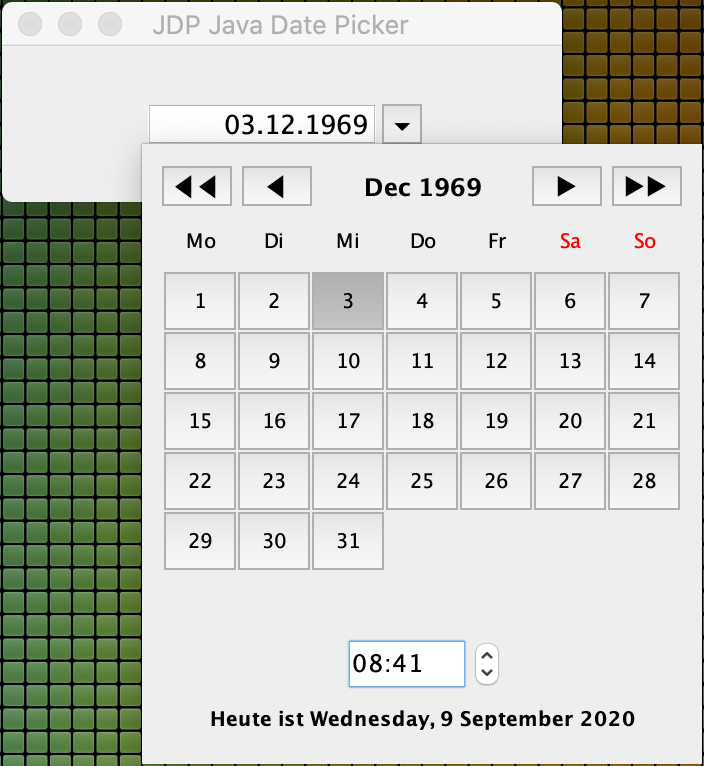
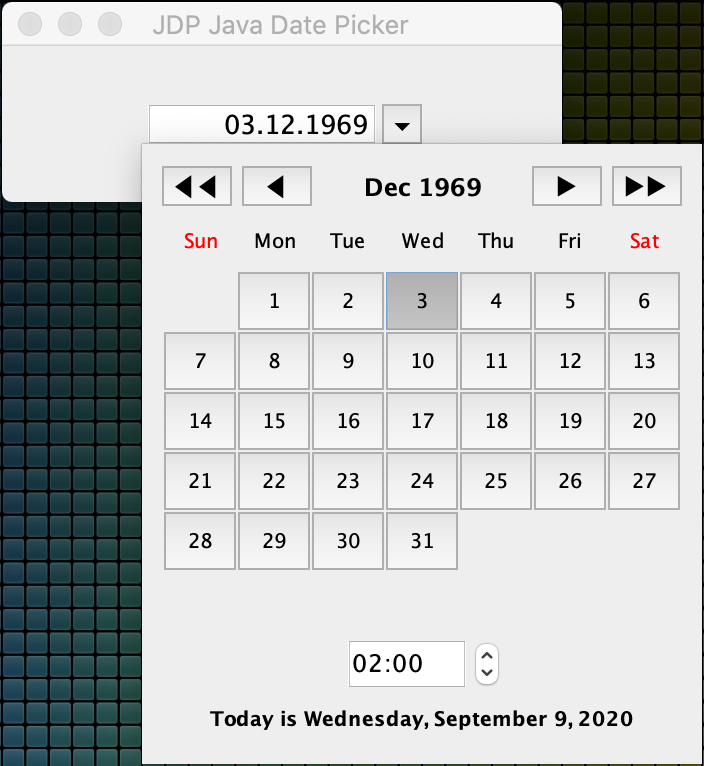
this and that

diff --git a/src/main/java/eu/hansolo/swing/jdp/DatePickerPopup.java b/src/main/java/eu/hansolo/swing/jdp/DatePickerPopup.java
@@ -17,10 +17,13 @@
 package eu.hansolo.swing.jdp;
 
 import javax.swing.*;
+import javax.swing.JSpinner.DefaultEditor;
 import javax.swing.border.EmptyBorder;
 import javax.swing.event.ChangeListener;
 import java.awt.*;
 import java.awt.event.ActionListener;
+import java.text.DateFormat;
+import java.text.SimpleDateFormat;
 import java.time.DateTimeException;
 import java.time.DayOfWeek;
 import java.time.LocalDate;
@@ -54,8 +57,8 @@ public class DatePickerPopup extends JComponent {
     private static final int                           MAX_HEIGHT            = 2048;
     private              int                           oldWidth              = PREFERRED_WIDTH;
     private              int                           oldHeight             = PREFERRED_HEIGHT;
-    protected            DateTimeFormatter             timeFormatter         = DateTimeFormatter.ofPattern("hh:mm");
-    protected            DateTimeFormatter             dateFormatter         = DateTimeFormatter.ofPattern("dd.MM.yyyy");
+    protected            DateTimeFormatter             timeFormatter;
+    protected            DateTimeFormatter             dateFormatter;
     private              DateTimeFormatter             todaysDateFormatter;
     private              List<DatePickerEventObserver> observers;
     private              Locale                        locale;
@@ -101,48 +104,54 @@ public class DatePickerPopup extends JComponent {
 
     // ******************** Constructors **************************************
     public DatePickerPopup() {
-        this(Locale.getDefault(), false, true, ZonedDateTime.now(), ZoneId.systemDefault(), DATE_AND_TIME, "hh:mm", "dd.mm.YYYY", Color.black, Color.red);
+        this(Locale.getDefault(), false, true, ZonedDateTime.now(), ZoneId.systemDefault(), DATE_AND_TIME, Color.black, Color.red);
     }
     public DatePickerPopup(final LocalDate selectedDate) {
-        this(Locale.getDefault(), false, true, ZonedDateTime.of(selectedDate, LocalTime.now(), ZoneId.systemDefault()), ZoneId.systemDefault(), DATE_AND_TIME, "hh:mm", "dd.mm.YYYY", Color.black, Color.red);
+        this(Locale.getDefault(), false, true, ZonedDateTime.of(selectedDate, LocalTime.now(), ZoneId.systemDefault()), ZoneId.systemDefault(), DATE_AND_TIME, Color.black, Color.red);
     }
     public DatePickerPopup(final ZonedDateTime selectedDate) {
-        this(Locale.getDefault(), false, true, selectedDate, ZoneId.systemDefault(), DATE_AND_TIME, "hh:mm", "dd.mm.YYYY", Color.black, Color.red);
+        this(Locale.getDefault(), false, true, selectedDate, ZoneId.systemDefault(), DATE_AND_TIME, Color.black, Color.red);
     }
     public DatePickerPopup(final boolean calendarWeekVisible, final ZonedDateTime selectedDate) {
-        this(Locale.getDefault(), calendarWeekVisible, true, selectedDate, ZoneId.systemDefault(), DATE_AND_TIME, "hh:mm", "dd.mm.YYYY", Color.black, Color.red);
+        this(Locale.getDefault(), calendarWeekVisible, true, selectedDate, ZoneId.systemDefault(), DATE_AND_TIME, Color.black, Color.red);
     }
     public DatePickerPopup(final Locale locale, final ZonedDateTime selectedDate) {
-        this(locale, false, true, selectedDate, ZoneId.systemDefault(), DATE_AND_TIME, "hh:mm", "dd.mm.YYYY", Color.black, Color.red);
+        this(locale, false, true, selectedDate, ZoneId.systemDefault(), DATE_AND_TIME, Color.black, Color.red);
     }
-    public DatePickerPopup(final Locale locale, final boolean calendarWeekVisible, final boolean todaysDateVisible, final ZonedDateTime selectedDate, final ZoneId zoneId, final DisplayMode displayMode, final String timeFormat, final String dateFormat, final Color textColor, final Color weekEndColor) {
+    public DatePickerPopup(final Locale locale, final boolean calendarWeekVisible, final boolean todaysDateVisible, final ZonedDateTime selectedDate, final ZoneId zoneId, final DisplayMode displayMode, final Color textColor, final Color weekEndColor) {
         setBorder(new EmptyBorder(10, 10, 10, 10));
-        this.locale               = locale;
-        this.zoneId               = zoneId;
-        this.todaysDateFormatter  = DateTimeFormatter.ofLocalizedDate(FormatStyle.FULL).withLocale(locale);
-        this.calendarWeekVisible  = calendarWeekVisible;
-        this.todaysDateVisible    = todaysDateVisible;
-        this.displayMode          = displayMode;
-        this.textColor            = textColor;
-        this.weekendColor         = weekEndColor;
-        this.timeFormat           = timeFormat;
-        this.dateFormat           = dateFormat;
-        this.resourceBundle       = ResourceBundle.getBundle("eu.hansolo.swing.jdp.DatePickerBundle", this.locale);
-        this.observers            = new CopyOnWriteArrayList();
-        this.selectedDate         = selectedDate;
-        this.selectedTime         = selectedDate.toLocalTime();
-        this.currentDate          = selectedDate;
-        this.currentMonthFont     = new Font("SansSerif", Font.BOLD, 10);
-        this.daysOfWeekFont       = new Font("SansSerif", Font.PLAIN, 10);
-        this.calendarWeekFont     = new Font("SansSerif", Font.PLAIN, 8);
-        this.dayFont              = new Font("SansSerif", Font.PLAIN, 10);
-        this.spinnerFont          = new Font("SansSerif", Font.PLAIN, 12);
-        this.daysOfWeek           = new ArrayList<>();
-        this.calendarWeeks        = new ArrayList<>();
-        this.days                 = new ArrayList<>();
-        this.weekFields           = WeekFields.of(this.locale);
-        this.startOfWeek          = weekFields.getFirstDayOfWeek();
-        this.controlClickListener = e -> {
+        this.locale                  = locale;
+
+        SimpleDateFormat datePattern = (SimpleDateFormat) DateFormat.getDateInstance(DateFormat.DEFAULT, locale);
+        SimpleDateFormat timePattern = (SimpleDateFormat) DateFormat.getTimeInstance(DateFormat.DEFAULT, locale);
+
+        this.dateFormatter           = DateTimeFormatter.ofLocalizedDate(FormatStyle.SHORT).withLocale(locale);
+        this.timeFormatter           = DateTimeFormatter.ofLocalizedTime(FormatStyle.SHORT).withLocale(locale);
+        this.dateFormat              = datePattern.toLocalizedPattern();
+        this.timeFormat              = timePattern.toLocalizedPattern();
+        this.zoneId                  = zoneId;
+        this.todaysDateFormatter     = DateTimeFormatter.ofLocalizedDate(FormatStyle.FULL).withLocale(locale);
+        this.calendarWeekVisible     = calendarWeekVisible;
+        this.todaysDateVisible       = todaysDateVisible;
+        this.displayMode             = displayMode;
+        this.textColor               = textColor;
+        this.weekendColor            = weekEndColor;
+        this.resourceBundle          = ResourceBundle.getBundle("eu.hansolo.swing.jdp.DatePickerBundle", this.locale);
+        this.observers               = new CopyOnWriteArrayList();
+        this.selectedDate            = selectedDate;
+        this.selectedTime            = selectedDate.toLocalTime();
+        this.currentDate             = selectedDate;
+        this.currentMonthFont        = new Font("SansSerif", Font.BOLD, 10);
+        this.daysOfWeekFont          = new Font("SansSerif", Font.PLAIN, 10);
+        this.calendarWeekFont        = new Font("SansSerif", Font.PLAIN, 8);
+        this.dayFont                 = new Font("SansSerif", Font.PLAIN, 10);
+        this.spinnerFont             = new Font("SansSerif", Font.PLAIN, 12);
+        this.daysOfWeek              = new ArrayList<>();
+        this.calendarWeeks           = new ArrayList<>();
+        this.days                    = new ArrayList<>();
+        this.weekFields              = WeekFields.of(this.locale);
+        this.startOfWeek             = weekFields.getFirstDayOfWeek();
+        this.controlClickListener    = e -> {
             Object src = e.getSource();
             if (src.equals(previousYearButton)) {
                 setCurrentDate(getCurrentDate().minusYears(1));
@@ -154,7 +163,7 @@ public class DatePickerPopup extends JComponent {
                 setCurrentDate(getCurrentDate().plusYears(1));
             }
         };
-        this.onClickListener      = e -> {
+        this.onClickListener         = e -> {
             JButton button = (JButton) e.getSource();
             ZonedDateTime selected = ZonedDateTime.of(LocalDate.of(getCurrentDate().getYear(), getCurrentDate().getMonthValue(), Integer.parseInt(button.getText())), selectedTime, zoneId);
             setSelectedDate(selected);
@@ -162,7 +171,7 @@ public class DatePickerPopup extends JComponent {
             button.requestFocus();
             fireDatePickerEvent(new DatePickerEvent(DatePickerPopup.this, DatePickerEventType.DATE_SELECTED, selected));
         };
-        this.timeChangeListener   = e -> {
+        this.timeChangeListener      = e -> {
             this.selectedTime = LocalTime.ofInstant((((Date) timeSpinner.getValue()).toInstant()), getZoneId());
             ZonedDateTime selected = ZonedDateTime.of(getSelectedDate().toLocalDate(), selectedTime, getZoneId());
             fireDatePickerEvent(new DatePickerEvent(DatePickerPopup.this, DatePickerEventType.DATE_SELECTED, selected));
@@ -395,6 +404,8 @@ public class DatePickerPopup extends JComponent {
             timeSpinner.setValue(date);
             timeSpinner.setEditor(new JSpinner.DateEditor(timeSpinner, getTimeFormat()));
             timeSpinner.addChangeListener(timeChangeListener);
+            JSpinner.DefaultEditor spinnerEditor = (DefaultEditor) timeSpinner.getEditor();
+            spinnerEditor.getTextField().setHorizontalAlignment(JTextField.CENTER);
 
             gridConstraints.fill      = GridBagConstraints.VERTICAL;
             gridConstraints.gridx     = 0;
@@ -552,6 +563,14 @@ public class DatePickerPopup extends JComponent {
         this.weekFields          = WeekFields.of(this.locale);
         this.startOfWeek         = weekFields.getFirstDayOfWeek();
         this.resourceBundle      = ResourceBundle.getBundle("eu.hansolo.swing.jdp.DatePickerBundle", this.locale);
+        this.dateFormatter       = DateTimeFormatter.ofLocalizedDate(FormatStyle.SHORT).withLocale(locale);
+        this.timeFormatter       = DateTimeFormatter.ofLocalizedTime(FormatStyle.SHORT).withLocale(locale);
+
+        SimpleDateFormat datePattern = (SimpleDateFormat) DateFormat.getDateInstance(DateFormat.DEFAULT, locale);
+        this.dateFormat = datePattern.toLocalizedPattern();
+        SimpleDateFormat timePattern = (SimpleDateFormat) DateFormat.getTimeInstance(DateFormat.DEFAULT, locale);
+        this.timeFormat = timePattern.toLocalizedPattern();
+
         this.todaysDateFormatter = DateTimeFormatter.ofLocalizedDate(FormatStyle.FULL).withLocale(locale);
         reInit();
     }

diff --git a/src/main/java/eu/hansolo/swing/jdp/DatePicker.java b/src/main/java/eu/hansolo/swing/jdp/DatePicker.java
@@ -20,6 +20,7 @@ import javax.swing.*;
 import javax.swing.border.EmptyBorder;
 import javax.swing.event.ChangeEvent;
 import javax.swing.event.ChangeListener;
+import javax.swing.text.DateFormatter;
 import java.awt.*;
 import java.awt.event.ActionListener;
 import java.awt.event.WindowEvent;
@@ -50,37 +51,39 @@ import static eu.hansolo.swing.jdp.DisplayMode.DATE_ONLY;
 
 
 public class DatePicker extends JPanel {
-    private DatePickerPopup popup;
+    private JFormattedTextField dateField;
+    private DatePickerPopup     popup;
 
     // ******************** Constructors **************************************
     public DatePicker() {
-        this(Locale.getDefault(), false, true, ZonedDateTime.now(), ZoneId.systemDefault(), DATE_AND_TIME, "hh:mm", "dd.MM.yyyy", Color.black, Color.red);
+        this(Locale.getDefault(), false, true, ZonedDateTime.now(), ZoneId.systemDefault(), DATE_AND_TIME, Color.black, Color.red);
     }
     public DatePicker(final LocalDate selectedDate) {
 
-        this(Locale.getDefault(), false, true, ZonedDateTime.of(selectedDate, LocalTime.now(), ZoneId.systemDefault()), ZoneId.systemDefault(), DATE_AND_TIME, "hh:mm", "dd.MM.yyyy", Color.black, Color.red);
+        this(Locale.getDefault(), false, true, ZonedDateTime.of(selectedDate, LocalTime.now(), ZoneId.systemDefault()), ZoneId.systemDefault(), DATE_AND_TIME, Color.black, Color.red);
     }
     public DatePicker(final ZonedDateTime selectedDate) {
-        this(Locale.getDefault(), false, true, selectedDate, ZoneId.systemDefault(), DATE_AND_TIME, "hh:mm", "dd.MM.yyyy", Color.black, Color.red);
+        this(Locale.getDefault(), false, true, selectedDate, ZoneId.systemDefault(), DATE_AND_TIME, Color.black, Color.red);
     }
     public DatePicker(final boolean calendarWeekVisible, final ZonedDateTime selectedDate) {
-        this(Locale.getDefault(), calendarWeekVisible, true, selectedDate, ZoneId.systemDefault(), DATE_AND_TIME, "hh:mm", "dd.MM.yyyy", Color.black, Color.red);
+        this(Locale.getDefault(), calendarWeekVisible, true, selectedDate, ZoneId.systemDefault(), DATE_AND_TIME, Color.black, Color.red);
     }
     public DatePicker(final Locale locale, final ZonedDateTime selectedDate) {
-        this(locale, false, true, selectedDate, ZoneId.systemDefault(), DATE_AND_TIME, "hh:mm", "dd.MM.yyyy", Color.black, Color.red);
+        this(locale, false, true, selectedDate, ZoneId.systemDefault(), DATE_AND_TIME, Color.black, Color.red);
     }
     public DatePicker(final Locale locale, final boolean calendarWeekVisible, final ZonedDateTime selectedDate, final DisplayMode displayMode) {
-        this(locale, calendarWeekVisible, true, selectedDate, ZoneId.systemDefault(), displayMode, "hh:mm", "dd.MM.yyyy", Color.black, Color.red);
+        this(locale, calendarWeekVisible, true, selectedDate, ZoneId.systemDefault(), displayMode, Color.black, Color.red);
     }
-    public DatePicker(final Locale locale, final boolean calendarWeekVisible, final boolean todaysDateVisible, final ZonedDateTime selectedDate, final ZoneId zoneId, final DisplayMode displayMode, final String timeFormat, final String dateFormat, final Color textColor, final Color weekendColor) {
+    public DatePicker(final Locale locale, final boolean calendarWeekVisible, final boolean todaysDateVisible, final ZonedDateTime selectedDate, final ZoneId zoneId, final DisplayMode displayMode, final Color textColor, final Color weekendColor) {
         setLayout(new GridBagLayout());
         setPreferredSize(new Dimension(200, 20));
         setMaximumSize(new Dimension(200, 20));
 
-        popup = new DatePickerPopup(locale, calendarWeekVisible, todaysDateVisible, selectedDate, zoneId, displayMode, timeFormat, dateFormat, textColor, weekendColor);
-        popup.setDateFormat(dateFormat);
+        popup = new DatePickerPopup(locale, calendarWeekVisible, todaysDateVisible, selectedDate, zoneId, displayMode, textColor, weekendColor);
 
-        JTextField dateField = new JFormattedTextField(new SimpleDateFormat(dateFormat));
+        SimpleDateFormat datePattern = (SimpleDateFormat) DateFormat.getDateInstance(DateFormat.DEFAULT, locale);
+
+        dateField = new JFormattedTextField(new SimpleDateFormat(datePattern.toLocalizedPattern()));
         dateField.setHorizontalAlignment(SwingConstants.RIGHT);
         dateField.setPreferredSize(new Dimension(120, 20));
 
@@ -102,7 +105,11 @@ public class DatePicker extends JPanel {
                     }
                 }
                 @Override public void windowLostFocus(final WindowEvent e) {
-                    if (SwingUtilities.isDescendingFrom(e.getOppositeWindow(), dialog)) {
+                    try {
+                        if (SwingUtilities.isDescendingFrom(e.getOppositeWindow(), dialog)) {
+                            return;
+                        }
+                    } catch (NullPointerException ex) {
                         return;
                     }
                     popupButton.setText("\u25c2");
@@ -140,6 +147,12 @@ public class DatePicker extends JPanel {
         popup.setCurrentDate(currentDate);
     }
 
+    public void setLocale(final Locale locale) {
+        popup.setLocale(locale);
+        dateField.setLocale(locale);
+        DateFormatter dateFormatter = (DateFormatter) dateField.getFormatter();
+        dateFormatter.setFormat(DateFormat.getDateInstance(DateFormat.DEFAULT, locale));
+    }
 
     public void setOnDatePickerEvent(final DatePickerEventObserver observer) {
         addDatePickerEventObserver(observer);

diff --git a/src/main/java/eu/hansolo/swing/jdp/Demo.java b/src/main/java/eu/hansolo/swing/jdp/Demo.java
@@ -37,6 +37,7 @@ public class Demo {
         frame.setDefaultCloseOperation(JFrame.EXIT_ON_CLOSE);
 
         DatePicker datePicker = new DatePicker();
+        datePicker.setLocale(Locale.US);
         datePicker.setOnDatePickerEvent(e -> System.out.println("Selected date: " + e.getDate()));
 
         frame.getContentPane().add(datePicker);
